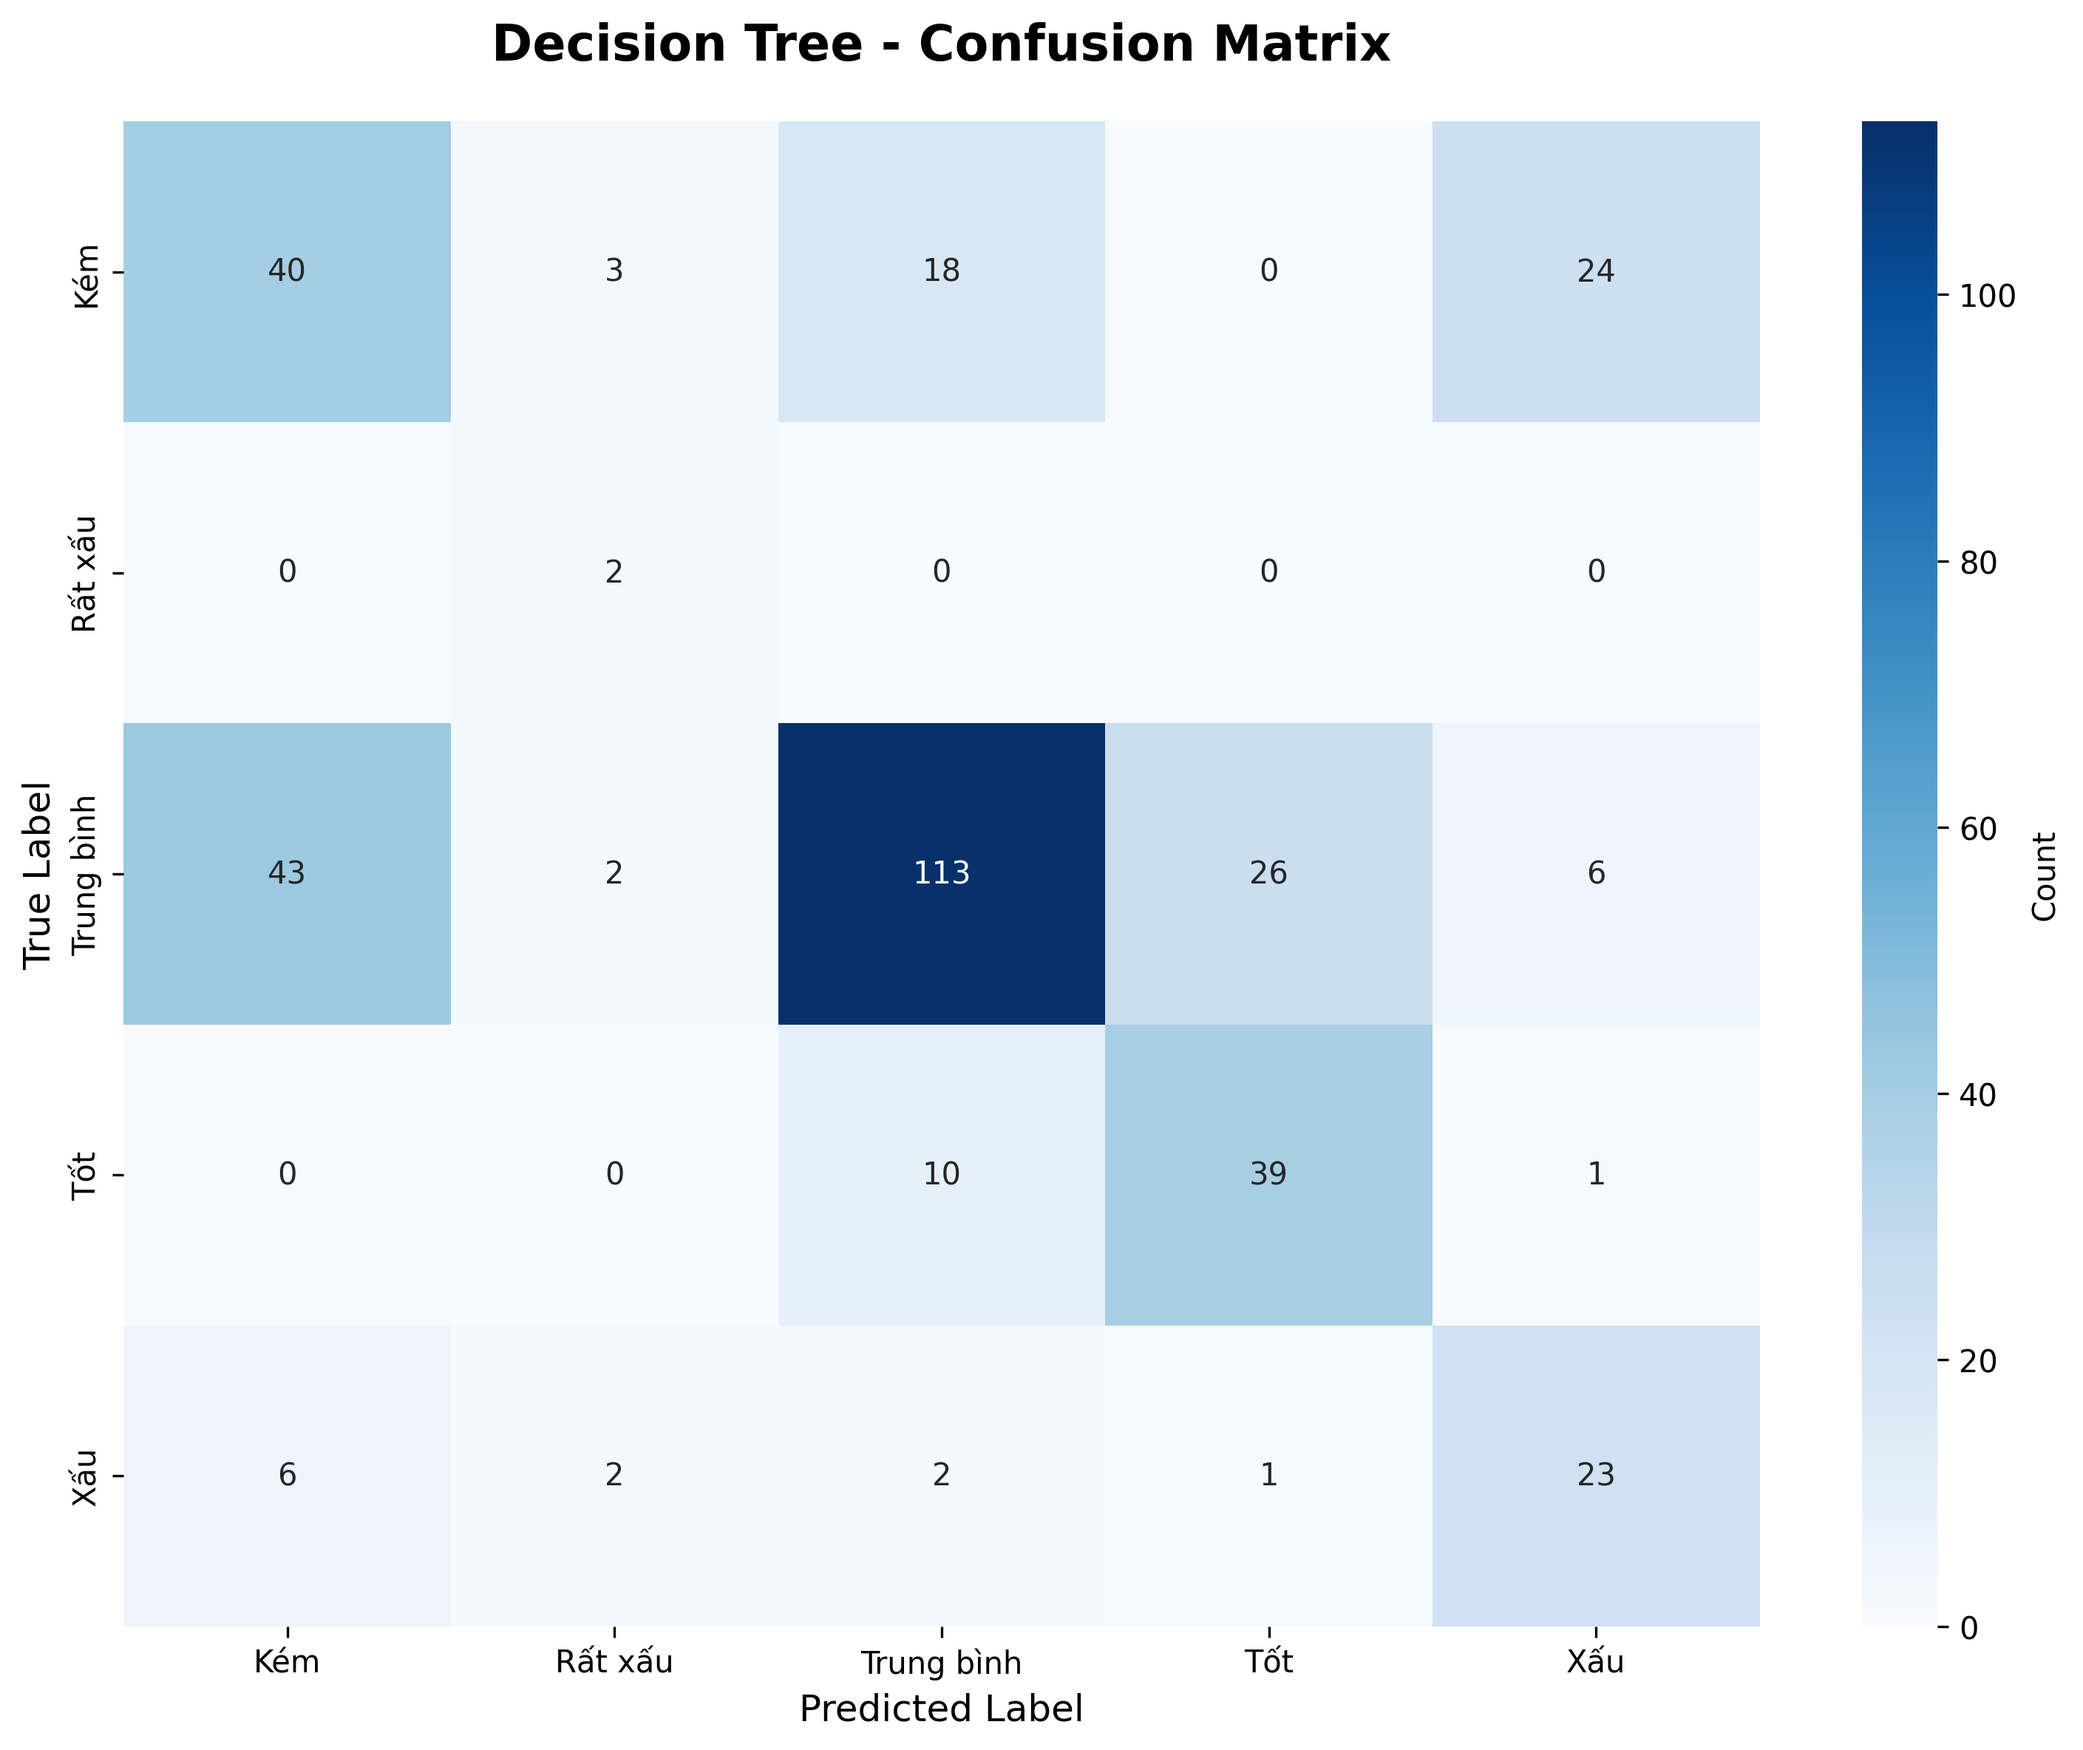
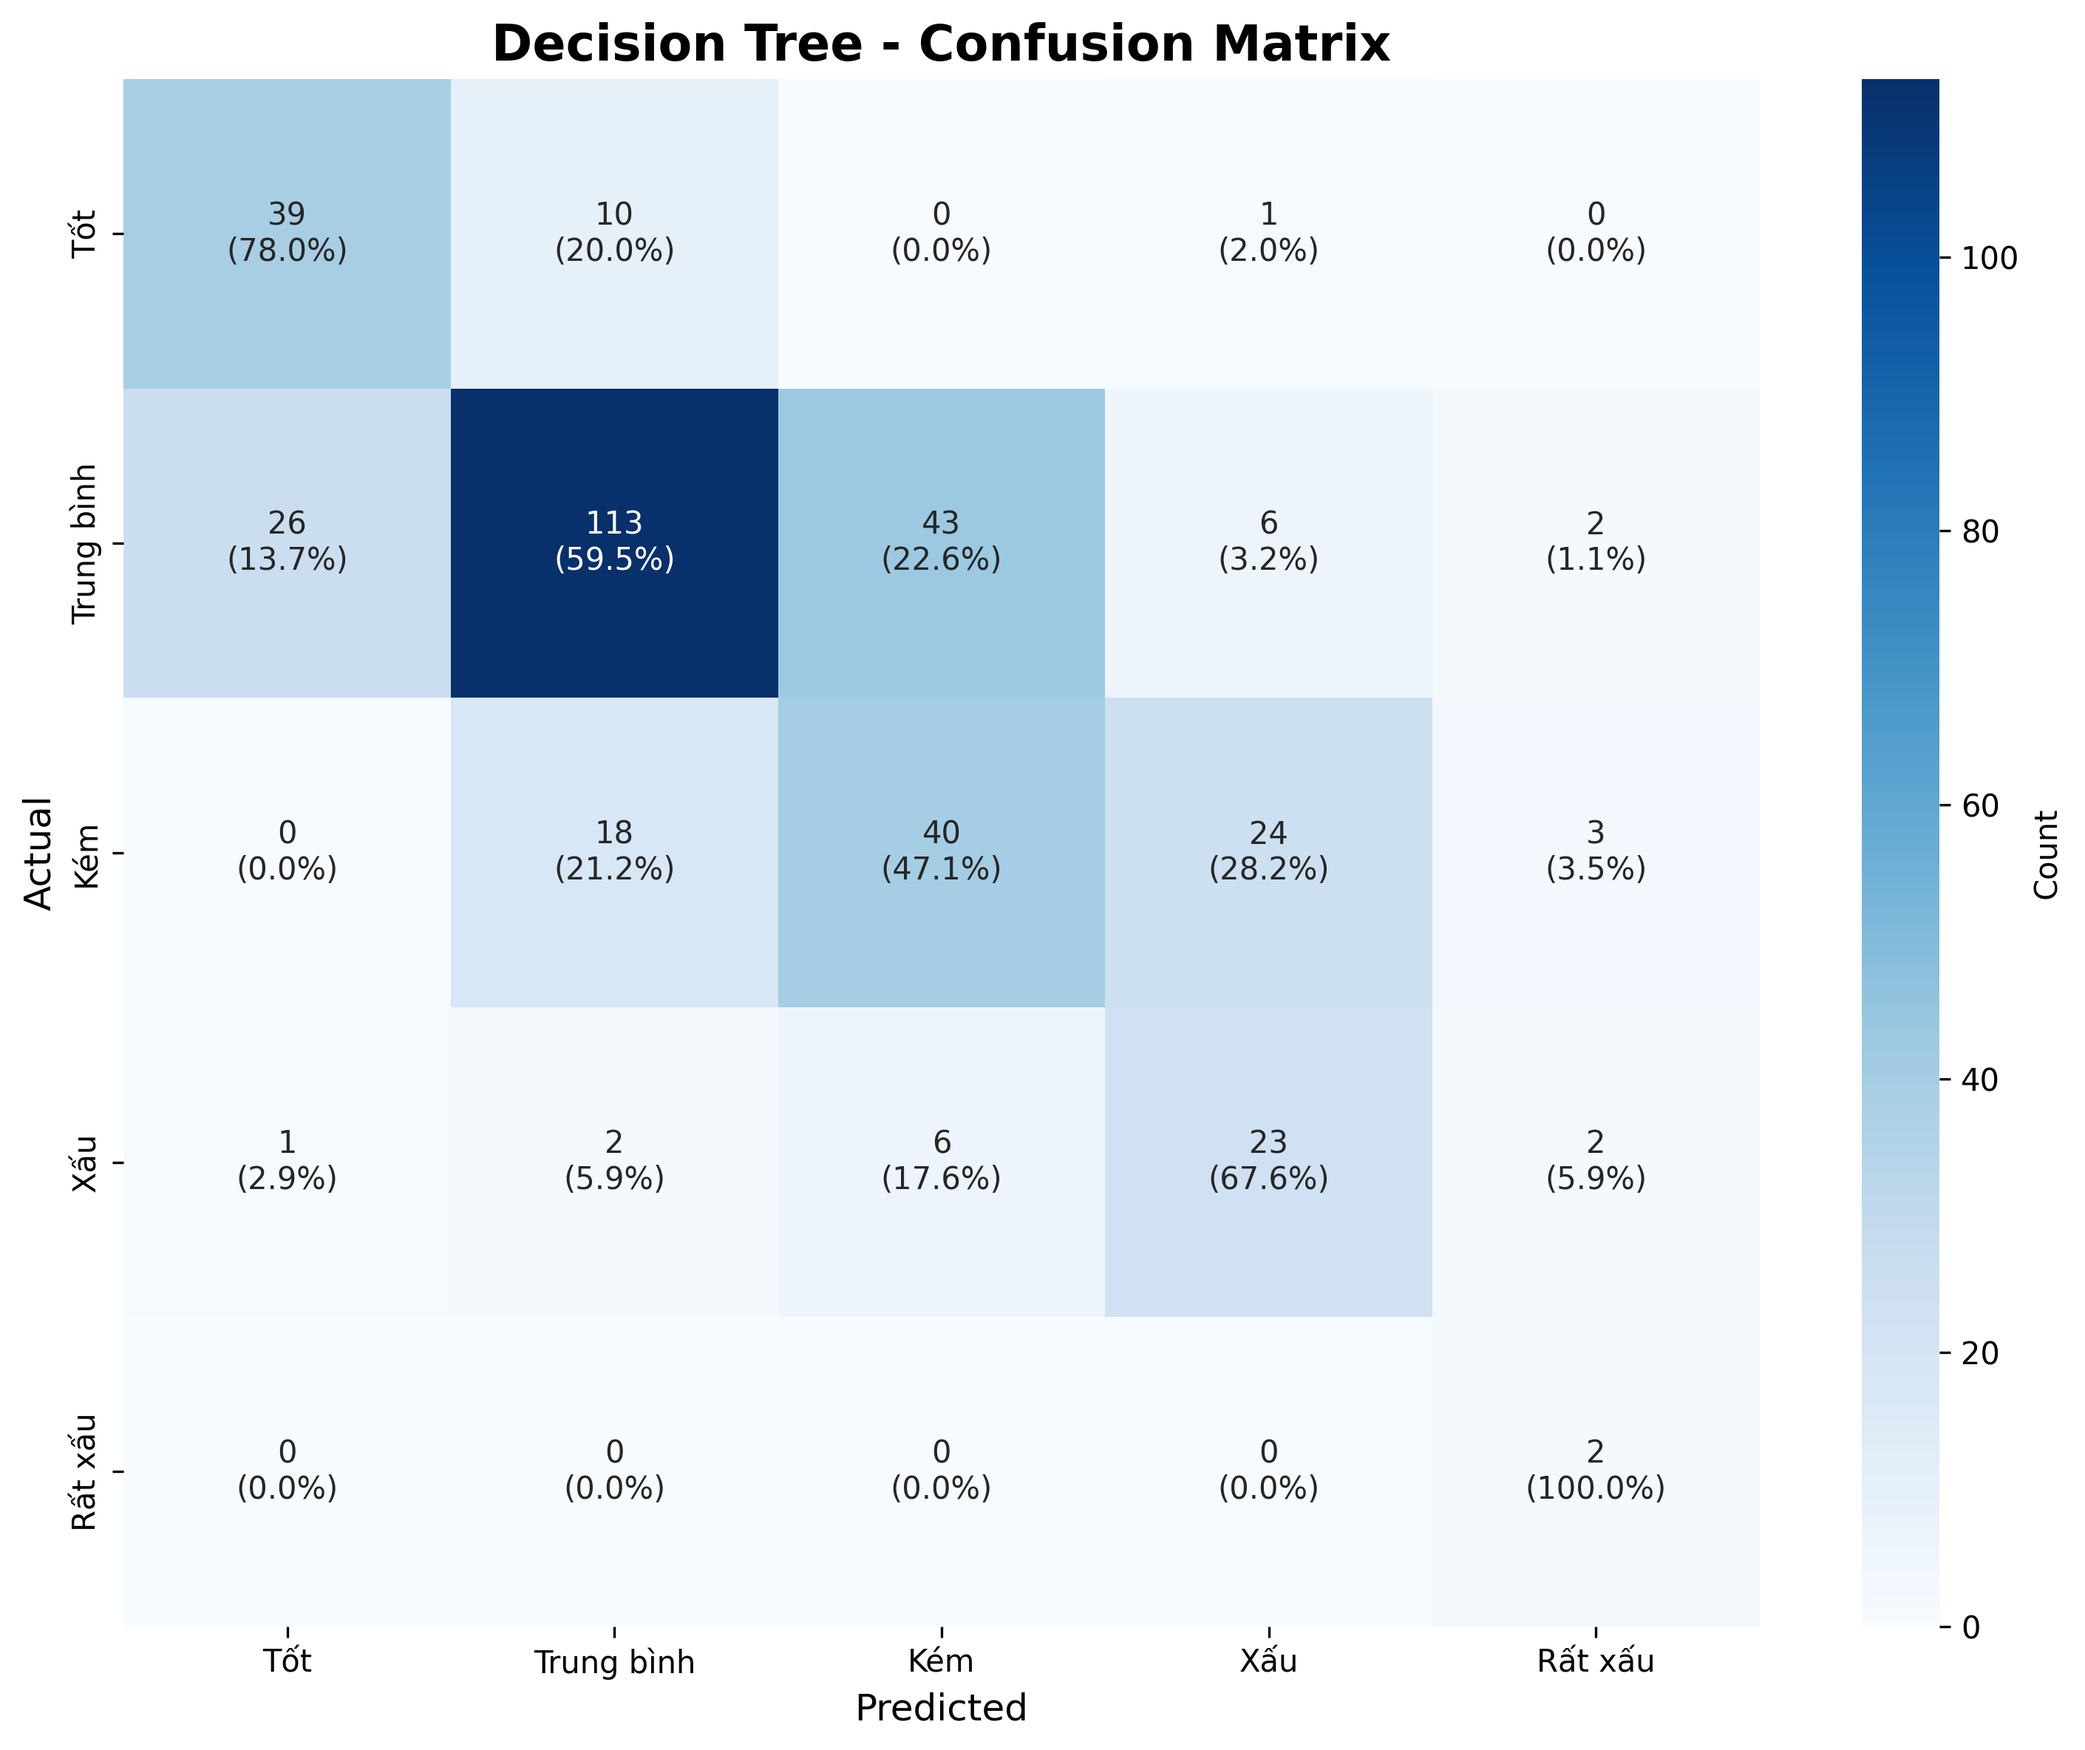
Fix confusion matrix order: Tốt → Trung bình → Kém → Xấu → Rất xấu

diff --git a/decision_tree_analysis/decision_tree_model.py b/decision_tree_analysis/decision_tree_model.py
@@ -196,19 +196,28 @@ def plot_confusion_matrix(cm, label_encoder, save_path='../output_reports/decisi
     
     plt.figure(figsize=(10, 8))
     
+    # Logical order
+    logical_order = ['Tốt', 'Trung bình', 'Kém', 'Xấu', 'Rất xấu']
+    
+    # Get label indices in logical order
+    label_indices = [list(label_encoder.classes_).index(label) for label in logical_order]
+    
+    # Reorder confusion matrix
+    cm_reordered = cm[np.ix_(label_indices, label_indices)]
+    
     # Tính phần trăm
-    cm_percent = cm.astype('float') / cm.sum(axis=1)[:, np.newaxis] * 100
+    cm_percent = cm_reordered.astype('float') / cm_reordered.sum(axis=1)[:, np.newaxis] * 100
     
     # Annotations
-    annot = np.empty_like(cm).astype(str)
-    for i in range(cm.shape[0]):
-        for j in range(cm.shape[1]):
-            annot[i, j] = f'{cm[i, j]}\n({cm_percent[i, j]:.1f}%)'
+    annot = np.empty_like(cm_reordered).astype(str)
+    for i in range(cm_reordered.shape[0]):
+        for j in range(cm_reordered.shape[1]):
+            annot[i, j] = f'{cm_reordered[i, j]}\n({cm_percent[i, j]:.1f}%)'
     
     sns.heatmap(
-        cm, annot=annot, fmt='', cmap='Blues',
-        xticklabels=label_encoder.classes_,
-        yticklabels=label_encoder.classes_,
+        cm_reordered, annot=annot, fmt='', cmap='Blues',
+        xticklabels=logical_order,
+        yticklabels=logical_order,
         cbar_kws={'label': 'Count'}
     )
     
